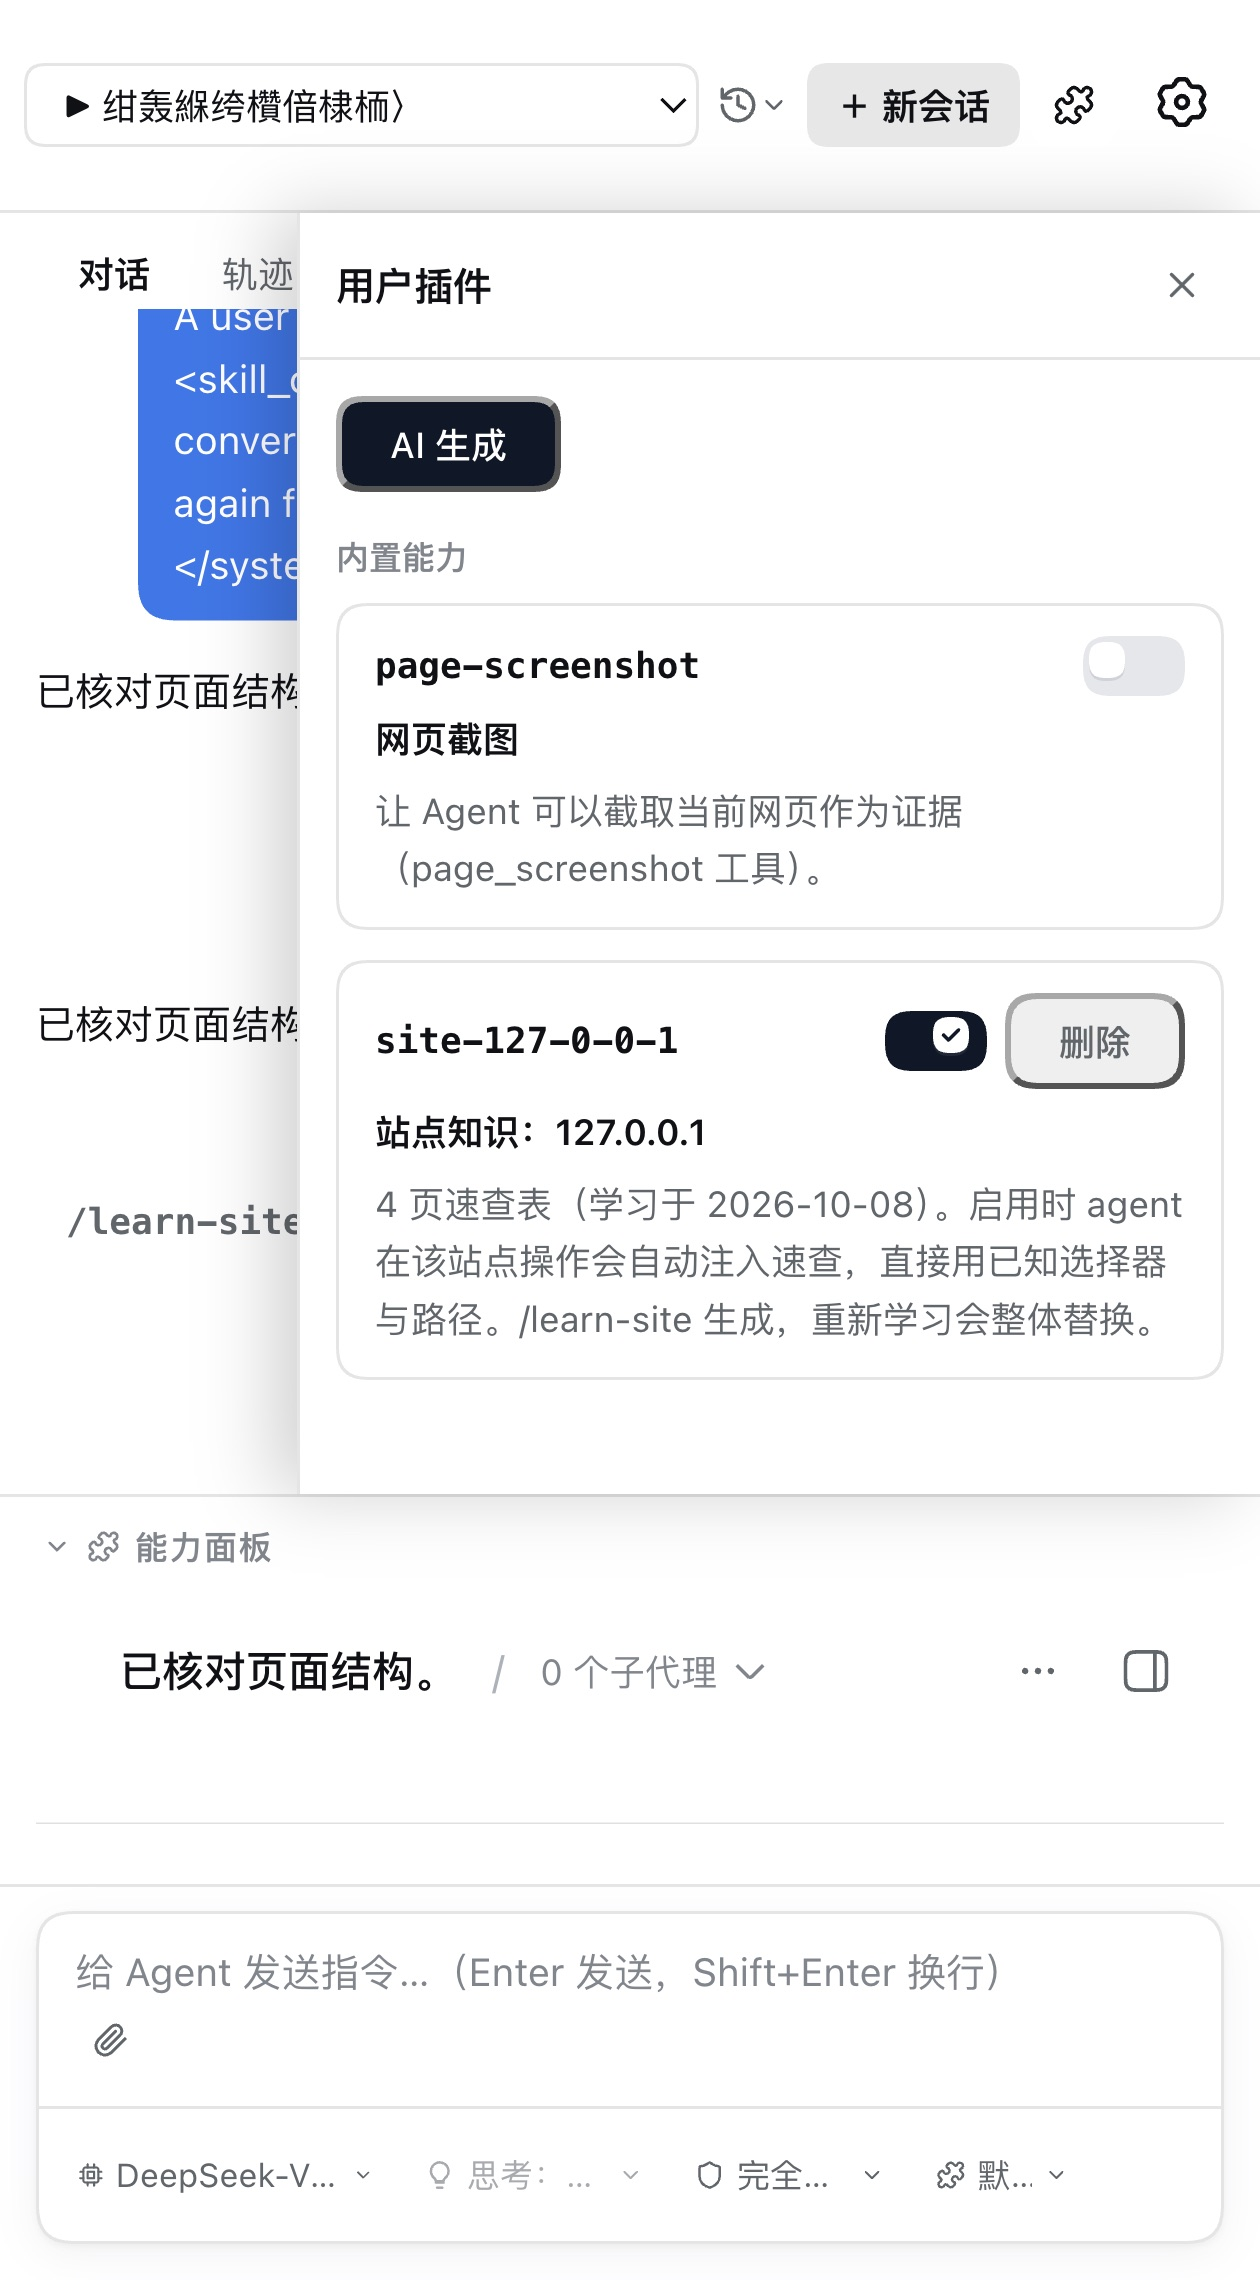
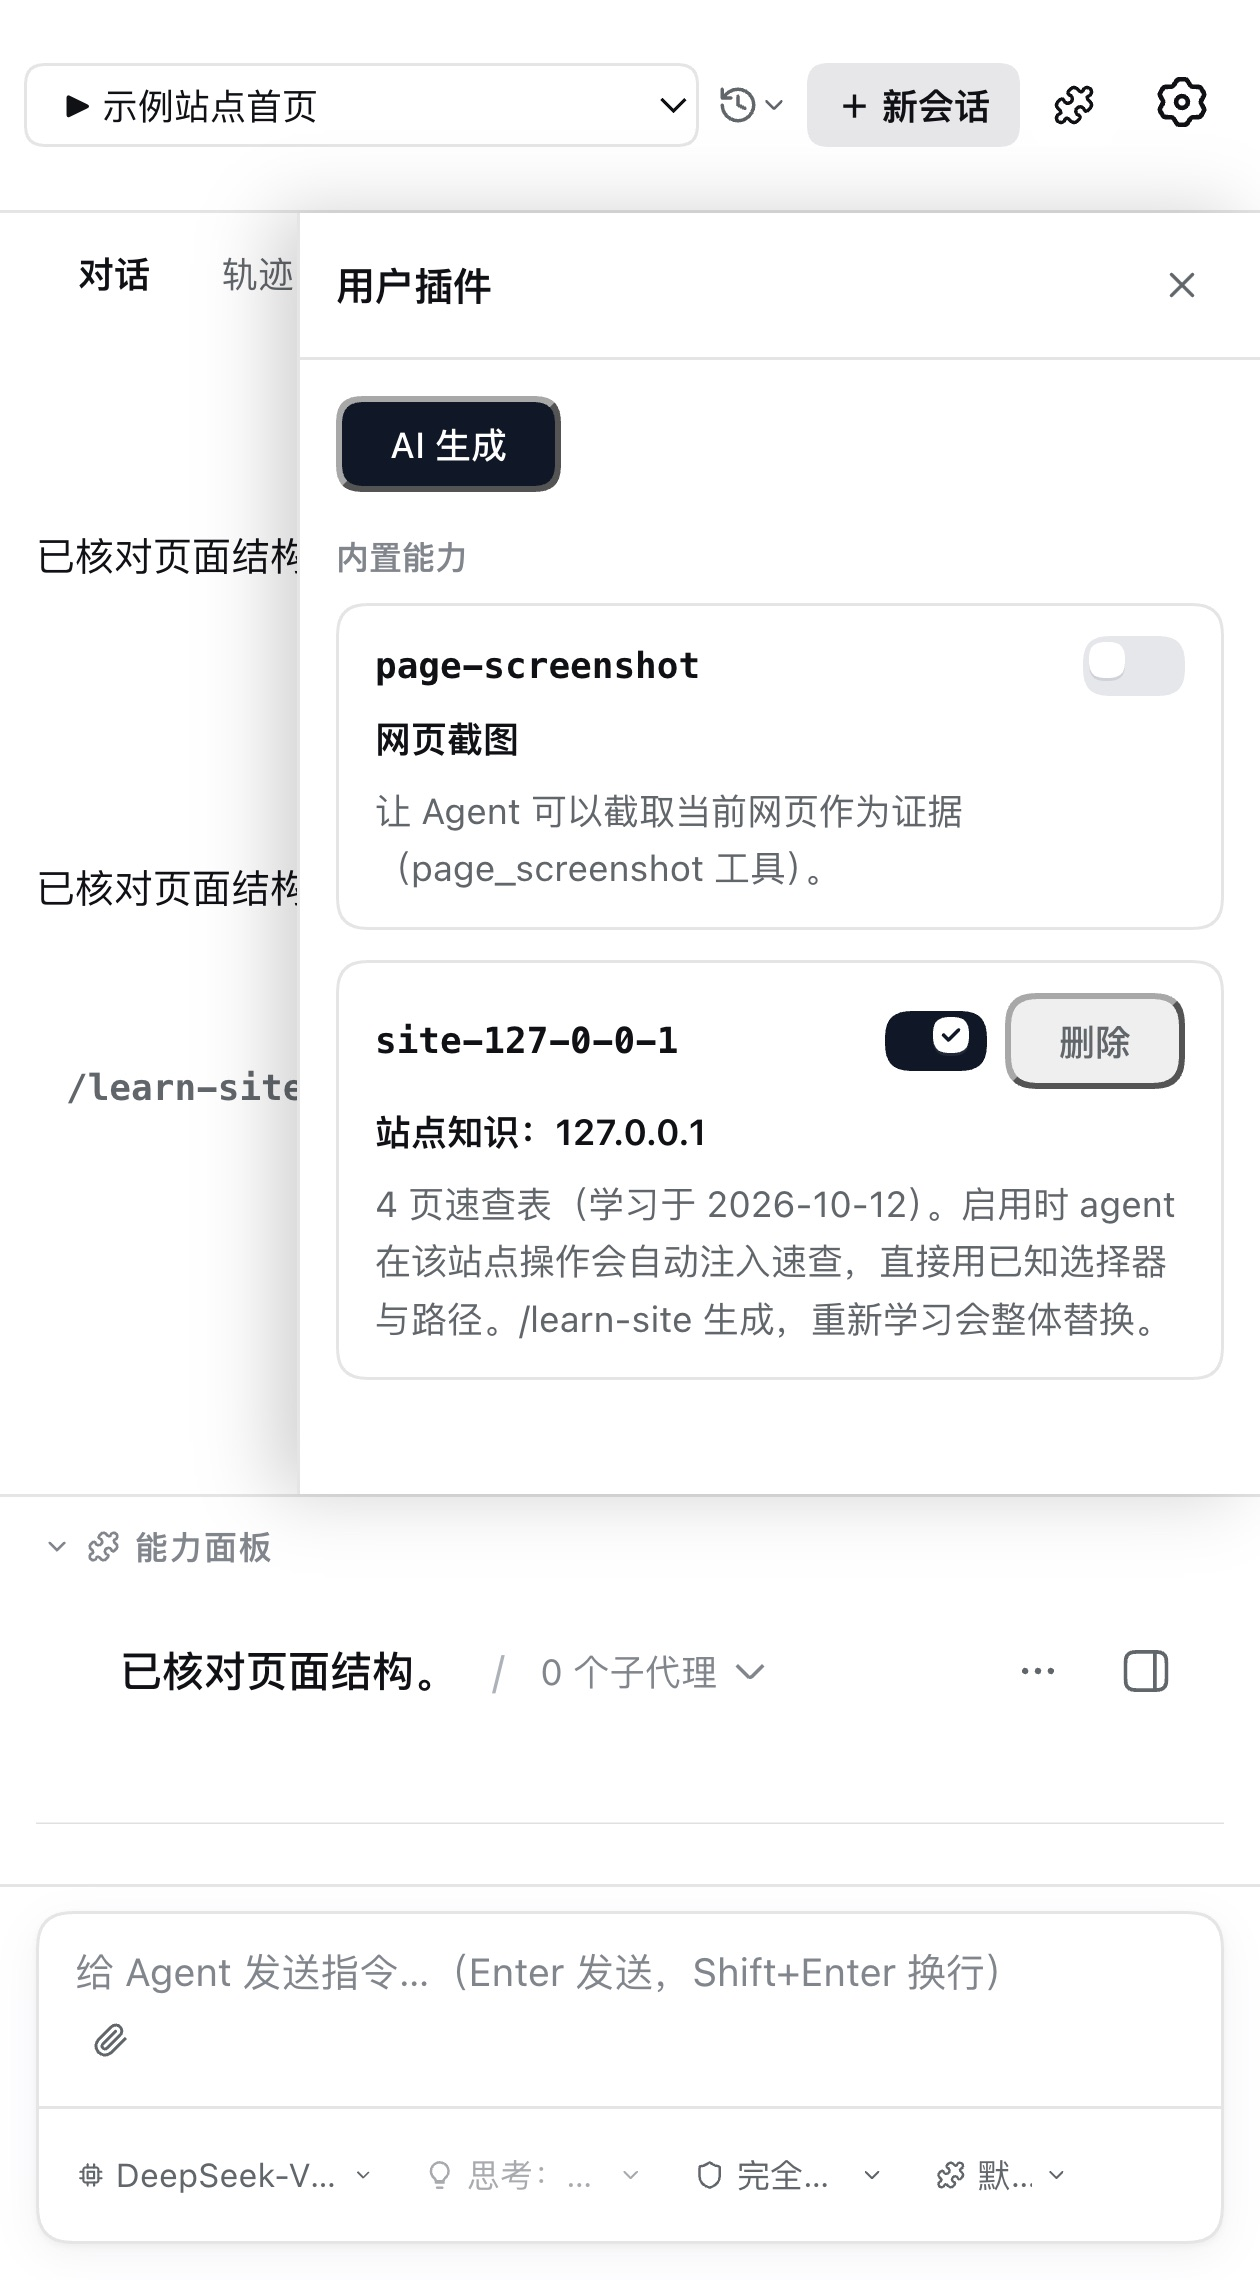
fix(website): landing screenshots carry a decoded tab title
The learn-site fixture pages behind the panel shots are UTF-8 without a
charset declaration, and the static file server sends text/html with no
charset parameter, so the browser sniffed a legacy CJK encoding and the
fixture tab's title reached the SidePanel header tab selector as
mojibake — baked into panel-learn and panel-presets. The shoot script
now owns the fixture (every page declares <meta charset="utf-8">) and
gates each screenshot on the tab selector's decoded text; all three
shots were re-captured.

diff --git a/.agents/notes/implemented/feature/2026-10-12-landing-follows-appearance-toggle.md b/.agents/notes/implemented/feature/2026-10-12-landing-follows-appearance-toggle.md
@@ -30,3 +30,7 @@ Verification: `website:build` passed; a nine-assertion Playwright matrix (initia
 ## Consequences
 
 The appearance toggle now switches the whole site. Dark mode is unchanged; light mode is a new surface built entirely from tokens, so future landing color changes edit the two token blocks. The 2026-09-28 landing note was updated where it asserted the old state (dark in both color modes, aurora backdrop, screenshot-collage hero, load-only motion).
+
+## Follow-up (same day): mojibake tab title in the landing shots
+
+The user reported garbled text in the tab selector of the last landing image. The learn-site fixture pages the panel shots are captured against are UTF-8 but carried no charset declaration, and `python3 -m http.server` serves `text/html` without a charset parameter, so the browser sniffed a legacy CJK encoding: the fixture tab's title reached the SidePanel header tab selector as mojibake, and the real-machine shoot baked it into `panel-learn`/`panel-presets` (`panel-trajectory` shows the panel's own tab and was never affected). The shoot script now writes the fixture itself with `<meta charset="utf-8">` on every page — no leftover `/tmp` state — and gates each screenshot on the tab selector's decoded text before capturing; all three shots were re-captured and the site redeployed.

diff --git a/.agents/notes/implemented/feature/2026-10-12-landing-follows-appearance-toggle.zh.md b/.agents/notes/implemented/feature/2026-10-12-landing-follows-appearance-toggle.zh.md
@@ -30,3 +30,7 @@ Status: implemented
 ## Consequences
 
 外观开关现在切换整站。深色模式不变；浅色模式是全新表面、完全由令牌构成，此后落地页改色只编辑两个令牌块。2026-09-28 落地页笔记中断言旧状态之处（两模式皆深色、极光背景、截图拼贴 hero、仅加载动效）已更新为现状。
+
+## Follow-up（同日）：落地页截图标签页标题乱码
+
+用户报告最后一幅落地页图的标签选择器出现乱码。面板截图所依赖的 learn-site 夹具页面是 UTF-8 但没有 charset 声明，而 `python3 -m http.server` 的 `text/html` 响应不带 charset 参数，浏览器于是按旧式 CJK 编码兜底解码：夹具标签页的标题以乱码进入 SidePanel 头部标签选择器，真机拍摄把它烙进了 `panel-learn`/`panel-presets`（`panel-trajectory` 显示的是面板自身标签，从未受影响）。拍摄脚本现在自建夹具、每页带 `<meta charset="utf-8">`——不再依赖 `/tmp` 残留——并在每次截图前以标签选择器的解码文本做门禁；三张图已重拍并重新部署站点。

diff --git a/CHANGELOG.md b/CHANGELOG.md
@@ -9,6 +9,7 @@ change without notice.
 
 ### Fixed
 
+- The landing screenshots' tab selector no longer shows mojibake: the fixture site behind the panel shots served UTF-8 pages without a charset declaration, so the browser sniffed a legacy CJK encoding for the tab title baked into the captures. The fixture now declares `<meta charset="utf-8">` and all three panel shots were re-captured.
 - The documentation site's dark/light appearance switch now works on the landing page: the home route had pinned its dark palette unconditionally, so the toggle changed nothing there. Landing colors moved into a per-mode `--landing-*` token layer — dark mode unchanged, a new light surface (white ground, ink hairlines, indigo accents) added — and the hero orbit artwork re-palettes with the mode. See `.agents/notes/implemented/feature/2026-10-12-landing-follows-appearance-toggle.md`.
 
 ## [0.4.0] - 2026-10-09
